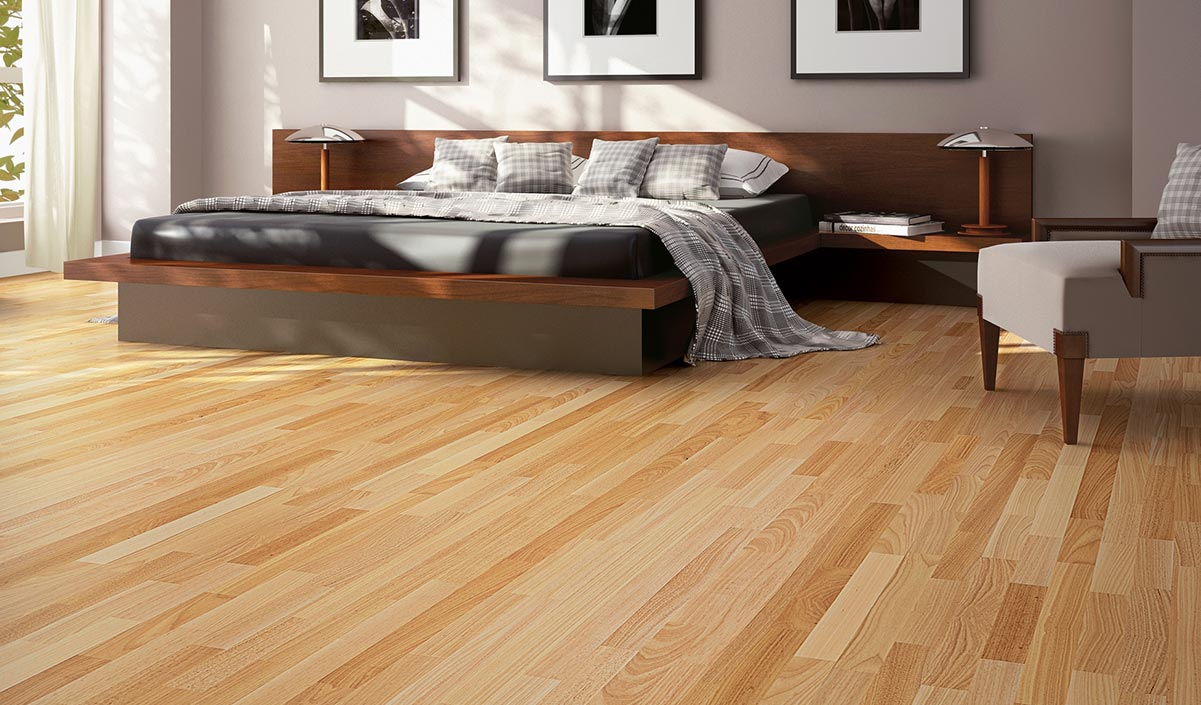
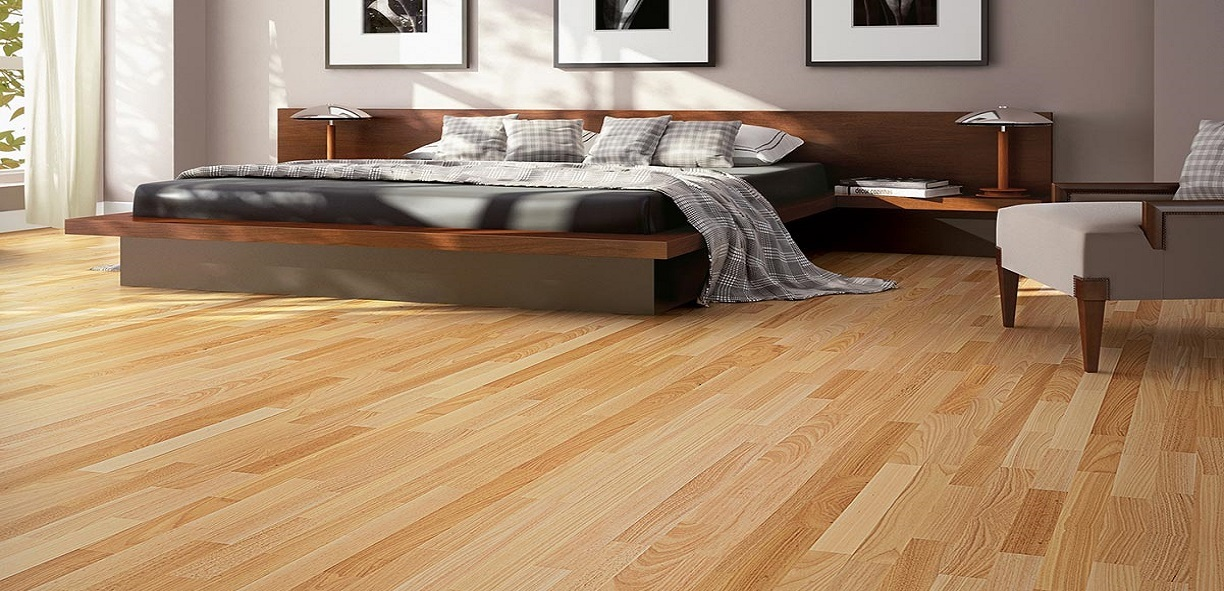
Alteração slide principal e correção

diff --git a/index.html b/index.html
@@ -69,7 +69,7 @@
             <div class = 'offcanvas-header d-flex d-lg-none'>
               <h5 class = '' id = 'offcanvasExampleLabel'><img class="navbar-brand logo_footer" height="60" src="images/LogoTHATOS.png"/></h5>
               <a href='javascript:void(0) ' class = 'text-reset p-0' data-bs-dismiss = 'offcanvas'aria-label = 'close'>
-                <svg xmlns = 'http://www.w3.org/2000/svg' width = '20' height = '20'fill = '#FFFFFF'class = 'bi bi-x-circle'viewBox = '0 0 16 16'>
+                <svg xmlns = 'http://www.w3.org/2000/svg' width = '22' height = '22'fill = '#FFFFFF'class = 'bi bi-x-circle' viewBox = '0 0 16 16'>
                   <path d = 'M8 15A7 7 0 1 1 8 1a7 7 0 0 1 0 14zm0 1A8 8 0 1 0 8 0a8 8 0 0 0 0 16z'/>
                   <path d = 'M4.646 4.646a.5.5 0 0 1 .708 0L8 7.293l2.646-2.647a.5.5 0 0 1 .708.708L8.707 8l2.647 2.646a.5.5 0 0 1-.708.708L8 8.707l-2.646 2.647a.5.5 0 0 1-.708-.708L7.293 8 4.646 5.354a.5.5 0 0 1 0-.708z'/>
                 </svg>
@@ -101,29 +101,29 @@
       <div class="row">
         <div class="col-12 container p-0">
 
-          <div id="carouselExampleCaptions" class="carousel slide" data-bs-ride="false">
+          <div id="carouselExampleFade" class="carousel slide carousel-fade">
            
             <div class="carousel-inner">
               <div class="carousel-item active" data-bs-interval="10000">
-                <img src="images/piso4.jpg" class="d-block w-100" alt="...">
+                <img src="images/piso2.jpg" class="d-flex w-100 opacidade" alt="Slide_1">
                 <div class="carousel-caption d-grid justify-content-center align-items-center" style="top:4rem; align-content: center;">
-                  <h1 class= "display-4" style="font-weight: 500; color:#ffffff; display: flex!important; justify-content: center!important;">A Thatos apresenta</h1>
-                  <span class="" style="font-size:1.1rem; color: #ffffff; display: flex!important; justify-content: center!important; align-self: flex-start;">Apaixonados por pisos de madeira</span>
+                  <h1 class= "display-5" style="font-weight: 500; color:#ffffff; display: flex!important; justify-content: center!important;">A Thatos apresenta</h1>
+                  <span class="fontsize" style="font-weight: 300; color: #ffffff; display: flex!important; justify-content: center!important; align-self: flex-start;">Apaixonados por pisos de madeira</span>
                 </div>
               </div>
               <div class="carousel-item"  data-bs-interval="10000">
-                <img src="images/piso4.jpg" class="d-block w-100" alt="...">
+                <img src="images/piso7.jpg" class="d-flex w-100 opacidade" alt="Slide_2">
                 <div class="carousel-caption d-grid justify-content-center align-items-center" style="top:4rem; align-content: center;">
-                  <h1 class= "display-4 fontsize" style="font-weight: 500; color:#ffffff; display: flex!important; justify-content: center!important;">Serviço de qualidade</h1>
-                  <span class="" style="font-size:1.1rem; color: #ffffff; display: flex!important; justify-content: center!important; align-self: flex-start!important;" >Sempre pronto para lhe atender!</span>
+                  <h1 class= "display-5" style="font-weight: 500; color:#ffffff; display: flex!important; justify-content: center!important;">Serviço de qualidade</h1>
+                  <span class="fontsize" style="font-weight: 300;  color: #ffffff; display: flex!important; justify-content: center!important; align-self: flex-start!important;" >Sempre pronto para lhe atender!</span>
                 </div>
               </div>
             </div>
-            <button class="carousel-control-prev" type="button" data-bs-target="#carouselExampleCaptions" data-bs-slide="prev">
+            <button class="carousel-control-prev" type="button" data-bs-target="#carouselExampleFade" data-bs-slide="prev">
               <span class="carousel-control-prev-icon" aria-hidden="true"></span>
               <span class="visually-hidden">Previous</span>
             </button>
-            <button class="carousel-control-next" type="button" data-bs-target="#carouselExampleCaptions" data-bs-slide="next">
+            <button class="carousel-control-next" type="button" data-bs-target="#carouselExampleFade" data-bs-slide="next">
               <span class="carousel-control-next-icon" aria-hidden="true"></span>
               <span class="visually-hidden">Next</span>
             </button>

diff --git a/css/estilo.css b/css/estilo.css
@@ -19,15 +19,22 @@ body {
 }
 
 #carouselExampleCaptions {
-	object-fit: contain!important;
-	background-size: contain!important;
+	object-fit: cover!important;
+	background-size: cover!important;
 	width: 100%!important;
-	height: auto!important;
+	height: 100%!important;
 }
 
 .carousel-item {
-	transition: transform 0.01s ease-out !important;
+	transition: transform 0.1s ease-out !important;
 }
+
+.opacidade, img {
+
+	filter: opacity(0.8);
+	z-index: 2;
+}
+
 
 .img-thumbnail {
 	border: none!important;
@@ -89,6 +96,12 @@ span {
 	.dev-title {
 
 		font-size: xx-small!important;
+	}
+
+	.fontsize {
+
+		font-weight: 500;
+		font-size: 0.99rem!important;
 	}
 }
 
